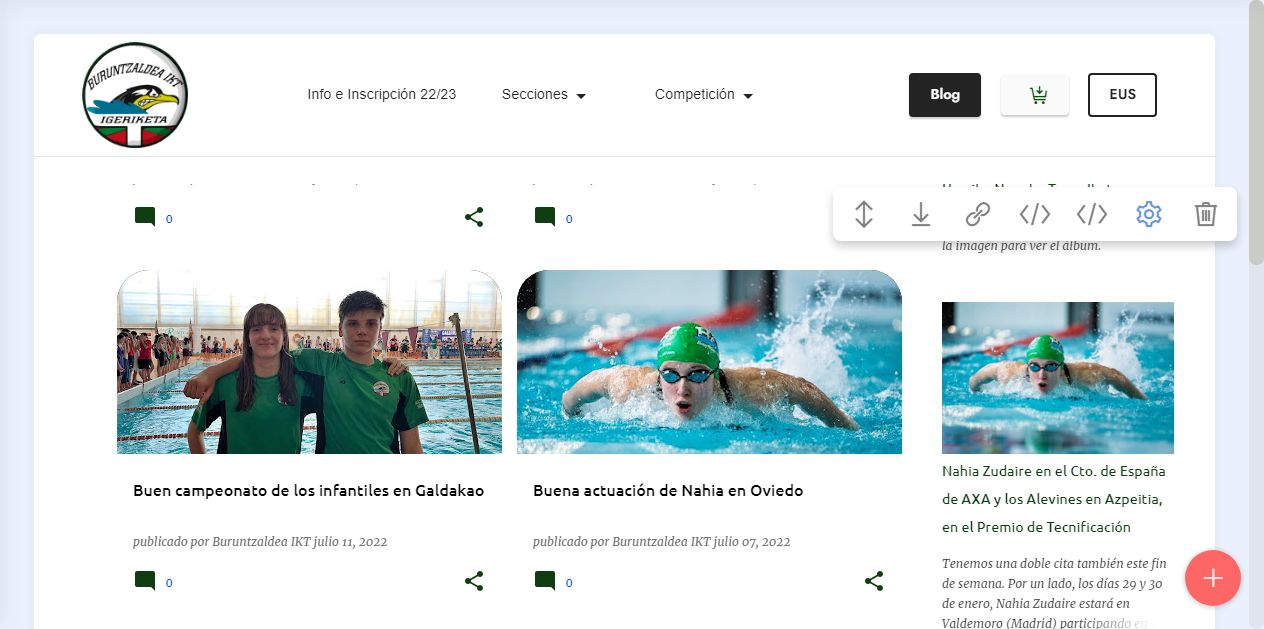
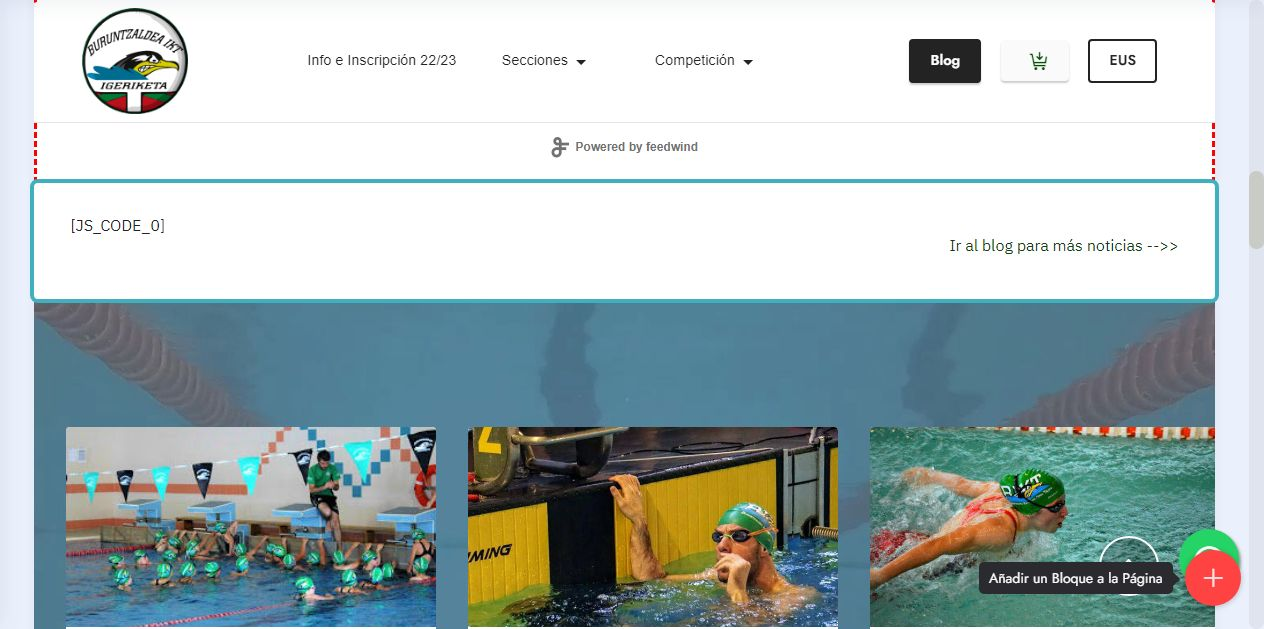
.

diff --git a/blog.html b/blog.html
@@ -61,50 +61,7 @@
 
 
 
-  <section data-bs-version="5.1" class="menu cid-thonyeZuDr" once="menu" id="menu1-s48OLK6784-syfGI2b0qF-syfGI2b0qF-syfGI2b0qF-syfGI2b0qF-syfGI2b0qF-syfGI2b0qF-syfGI2b0qF-sLOqAMhA6i-te5zZVVAEv-te5zZVVAEv-el">
-    
-    <nav class="navbar navbar-dropdown navbar-fixed-top navbar-expand-lg">
-        <div class="container-fluid">
-            <div class="navbar-brand">
-                <span class="navbar-logo">
-                    <a href="index.html">
-                        <img src="assets/images/bikt-3-121x121.png" alt="Buruntzaldea IKT" style="height: 6.6rem;">
-                    </a>
-                </span>
-                
-            </div>
-            <button class="navbar-toggler" type="button" data-toggle="collapse" data-bs-toggle="collapse" data-target="#navbarSupportedContent" data-bs-target="#navbarSupportedContent" aria-controls="navbarNavAltMarkup" aria-expanded="false" aria-label="Toggle navigation">
-                <div class="hamburger">
-                    <span></span>
-                    <span></span>
-                    <span></span>
-                    <span></span>
-                </div>
-            </button>
-            <div class="collapse navbar-collapse" id="navbarSupportedContent">
-                <ul class="navbar-nav nav-dropdown" data-app-modern-menu="true"><li class="nav-item"><a class="nav-link link show text-black display-4" href="inscripcion2223.html" aria-expanded="false"><span class="fas fa-fw fa-pencil-alt mbr-iconfont mbr-iconfont-btn"></span>Info e Inscripción 22/23</a></li><li class="nav-item dropdown"><a class="nav-link link dropdown-toggle text-black display-4" href="#" data-toggle="dropdown-submenu" data-bs-toggle="dropdown" data-bs-auto-close="outside" aria-expanded="false"><span class="map-icon map-icon-swimming mbr-iconfont mbr-iconfont-btn"></span>Secciones</a><div class="dropdown-menu" aria-labelledby="dropdown-558"><a class="show dropdown-item text-black display-4" href="escolar-federada.html">Natación Escolar y Federada</a><a class="show dropdown-item text-black display-4" href="estilos.html">Natación de Participación</a><a class="show dropdown-item text-black display-4" href="masters.html">Natación Máster</a><a class="show dropdown-item text-black display-4" href="escolar-federada.html">Natación Adaptada</a></div></li><li class="nav-item dropdown"><a class="nav-link link dropdown-toggle text-black display-4" href="#" data-toggle="dropdown-submenu" data-bs-toggle="dropdown" data-bs-auto-close="outside" aria-expanded="false"><span class="fas fa-fw fa-stopwatch mbr-iconfont mbr-iconfont-btn"></span>Competición</a><div class="dropdown-menu" aria-labelledby="dropdown-undefined"><a class="dropdown-item text-black display-4" href="competicion.html#calendario">Calendario</a><a class="dropdown-item text-black display-4" href="competicion.html#convocatorias">Convocatorias / Resultados</a><a class="dropdown-item text-black display-4" href="competicion.html#minimas">Marcas Mínimas</a><a class="dropdown-item text-white display-4" href="records.html" aria-expanded="false" style="background-color:black">Récords del club y Ránkings</a><a class="dropdown-item text-white display-4" href="voluntarios.html" style="background-color:black">Voluntarias/os</a></div></li></ul>
-                <div class="icons-menu">
-                    <a class="iconfont-wrapper" href="https://facebook.com/buruntzaldeaikt" target="_blank">
-                        <span class="p-2 mbr-iconfont social-icon-facebook social-icon" style="font-size: 15px; color: rgb(255, 255, 255); fill: rgb(255, 255, 255);"></span>
-                    </a>
-                    <a class="iconfont-wrapper" href="https://twitter.com/buruntzaldeaikt" target="_blank">
-                        <span class="p-2 mbr-iconfont social-icon-twitter social-icon" style="font-size: 15px; color: rgb(255, 255, 255); fill: rgb(255, 255, 255);"></span>
-                    </a>
-                    <a class="iconfont-wrapper" href="https://instagram.com/buruntzaldeaikt" target="_blank">
-                        <span class="p-2 mbr-iconfont social-icon-instagram social-icon" style="font-size: 15px; color: rgb(255, 255, 255); fill: rgb(255, 255, 255);"></span>
-                    </a>
-                    <a class="iconfont-wrapper" href="https://youtube.com/c/buruntzaldeaiktEUS" target="_blank">
-                        <span class="p-2 mbr-iconfont social-icon-youtube social-icon" style="font-size: 15px; color: rgb(255, 255, 255); fill: rgb(255, 255, 255);"></span>
-                    </a>
-                </div>
-                <div class="navbar-buttons mbr-section-btn"><a class="btn btn-black display-4" href="blog.html">Blog</a>  <a class="btn btn-white display-4" href="tienda.html"><span class="mobi-mbri mobi-mbri-cart-add mbr-iconfont mbr-iconfont-btn" style="color: rgb(5, 77, 7);"></span></a> <a class="btn btn-black-outline display-4" href="https://www.buruntzaldeaikt.eus/">EUS</a></div>
-            </div>
-        </div>
-    </nav>
-
-</section>
-
-<section class="mbr-section mbr-section--no-padding cid-tif3IqI3B9" id="witsec-html-block-em">
+  <section class="mbr-section mbr-section--no-padding cid-tif3IqI3B9" id="witsec-html-block-em">
 
 
 
@@ -277,6 +234,49 @@
             </div>
         </div>
     </div>
+</section>
+
+<section data-bs-version="5.1" class="menu cid-thonyeZuDr" once="menu" id="menu1-s48OLK6784-syfGI2b0qF-syfGI2b0qF-syfGI2b0qF-syfGI2b0qF-syfGI2b0qF-syfGI2b0qF-syfGI2b0qF-sLOqAMhA6i-te5zZVVAEv-te5zZVVAEv-el">
+    
+    <nav class="navbar navbar-dropdown navbar-fixed-top navbar-expand-lg">
+        <div class="container-fluid">
+            <div class="navbar-brand">
+                <span class="navbar-logo">
+                    <a href="index.html">
+                        <img src="assets/images/bikt-3-121x121.png" alt="Buruntzaldea IKT" style="height: 6.6rem;">
+                    </a>
+                </span>
+                
+            </div>
+            <button class="navbar-toggler" type="button" data-toggle="collapse" data-bs-toggle="collapse" data-target="#navbarSupportedContent" data-bs-target="#navbarSupportedContent" aria-controls="navbarNavAltMarkup" aria-expanded="false" aria-label="Toggle navigation">
+                <div class="hamburger">
+                    <span></span>
+                    <span></span>
+                    <span></span>
+                    <span></span>
+                </div>
+            </button>
+            <div class="collapse navbar-collapse" id="navbarSupportedContent">
+                <ul class="navbar-nav nav-dropdown" data-app-modern-menu="true"><li class="nav-item"><a class="nav-link link show text-black display-4" href="inscripcion2223.html" aria-expanded="false"><span class="fas fa-fw fa-pencil-alt mbr-iconfont mbr-iconfont-btn"></span>Info e Inscripción 22/23</a></li><li class="nav-item dropdown"><a class="nav-link link dropdown-toggle text-black display-4" href="#" data-toggle="dropdown-submenu" data-bs-toggle="dropdown" data-bs-auto-close="outside" aria-expanded="false"><span class="map-icon map-icon-swimming mbr-iconfont mbr-iconfont-btn"></span>Secciones</a><div class="dropdown-menu" aria-labelledby="dropdown-558"><a class="show dropdown-item text-black display-4" href="escolar-federada.html">Natación Escolar y Federada</a><a class="show dropdown-item text-black display-4" href="estilos.html">Natación de Participación</a><a class="show dropdown-item text-black display-4" href="masters.html">Natación Máster</a><a class="show dropdown-item text-black display-4" href="escolar-federada.html">Natación Adaptada</a></div></li><li class="nav-item dropdown"><a class="nav-link link dropdown-toggle text-black display-4" href="#" data-toggle="dropdown-submenu" data-bs-toggle="dropdown" data-bs-auto-close="outside" aria-expanded="false"><span class="fas fa-fw fa-stopwatch mbr-iconfont mbr-iconfont-btn"></span>Competición</a><div class="dropdown-menu" aria-labelledby="dropdown-undefined"><a class="dropdown-item text-black display-4" href="competicion.html#calendario">Calendario</a><a class="dropdown-item text-black display-4" href="competicion.html#convocatorias">Convocatorias / Resultados</a><a class="dropdown-item text-black display-4" href="competicion.html#minimas">Marcas Mínimas</a><a class="dropdown-item text-white display-4" href="records.html" aria-expanded="false" style="background-color:black">Récords del club y Ránkings</a><a class="dropdown-item text-white display-4" href="voluntarios.html" style="background-color:black">Voluntarias/os</a></div></li></ul>
+                <div class="icons-menu">
+                    <a class="iconfont-wrapper" href="https://facebook.com/buruntzaldeaikt" target="_blank">
+                        <span class="p-2 mbr-iconfont social-icon-facebook social-icon" style="font-size: 15px; color: rgb(255, 255, 255); fill: rgb(255, 255, 255);"></span>
+                    </a>
+                    <a class="iconfont-wrapper" href="https://twitter.com/buruntzaldeaikt" target="_blank">
+                        <span class="p-2 mbr-iconfont social-icon-twitter social-icon" style="font-size: 15px; color: rgb(255, 255, 255); fill: rgb(255, 255, 255);"></span>
+                    </a>
+                    <a class="iconfont-wrapper" href="https://instagram.com/buruntzaldeaikt" target="_blank">
+                        <span class="p-2 mbr-iconfont social-icon-instagram social-icon" style="font-size: 15px; color: rgb(255, 255, 255); fill: rgb(255, 255, 255);"></span>
+                    </a>
+                    <a class="iconfont-wrapper" href="https://youtube.com/c/buruntzaldeaiktEUS" target="_blank">
+                        <span class="p-2 mbr-iconfont social-icon-youtube social-icon" style="font-size: 15px; color: rgb(255, 255, 255); fill: rgb(255, 255, 255);"></span>
+                    </a>
+                </div>
+                <div class="navbar-buttons mbr-section-btn"><a class="btn btn-black display-4" href="blog.html">Blog</a>  <a class="btn btn-white display-4" href="tienda.html"><span class="mobi-mbri mobi-mbri-cart-add mbr-iconfont mbr-iconfont-btn" style="color: rgb(5, 77, 7);"></span></a> <a class="btn btn-black-outline display-4" href="https://www.buruntzaldeaikt.eus/">EUS</a></div>
+            </div>
+        </div>
+    </nav>
+
 </section><section><a href="https://mobiri.se"></a><a href="https://mobiri.se"></a></section><script src="assets/bootstrap/js/bootstrap.bundle.min.js"></script>  <script src="assets/smoothscroll/smooth-scroll.js"></script>  <script src="assets/ytplayer/index.js"></script>  <script src="assets/dropdown/js/navbar-dropdown.js"></script>  <script src="assets/theme/js/script.js"></script>  
   
   

diff --git a/assets/theme/js/script.js b/assets/theme/js/script.js
@@ -58,4 +58,4 @@ h)});d.forEach(function(a){a.removeEventListener("click",h)});t&&g(a).carousel({
 g(this).styler()}),g(a).find("input[type=number]").each(function(){g(this).styler&&(g(this).styler(),g(this).parent().parent().removeClass("form-control"))}),g(a).find("input[type=date]").each(function(){g(this).datetimepicker&&g(this).datetimepicker({format:"Y-m-d",timepicker:!1})}),g(a).find("input[type=time]").each(function(){g(this).datetimepicker&&g(this).datetimepicker({format:"H:i",datepicker:!1})}))})}document.querySelectorAll('input[type="range"]').forEach(function(a){a.addEventListener("change",
 function(a){a.target.parents(".form-group").forEach(function(b){b.querySelector(".value").innerHTML=a.target.value})})});if(p)g(document).on("add.cards changeParameter.cards",function(a,b){"undefined"!==typeof CircularProgressBar&&new CircularProgressBar("pie_progress");b?G(a.target,b):a.target.querySelectorAll(".pie_progress").length&&a.target.querySelectorAll(".pie_progress").forEach(function(a){B(a)})});else document.querySelectorAll(".pie_progress").length&&("undefined"!==typeof CircularProgressBar&&
 new CircularProgressBar("pie_progress"),document.querySelectorAll(".pie_progress").forEach(function(a){B(a)}));if(p&&t)g(document).on("add.cards",function(a){g(a.target).hasClass("testimonials-slider")&&x(a.target)}).on("changeParameter.cards",function(a,b,d){"testimonialsSlides"===b&&0==g(a.target).find(".carousel-item.active").length&&A(a.target)});else"undefined"===typeof window.initTestimonialsPlugin&&(window.initTestimonialsPlugin=!0,document.querySelectorAll(".testimonials-slider").forEach(function(a){x(a)}));
-l(function(){p||Array.from(document.body.children).filter(function(a){return!a.matches("style, script")}).forEach(function(a){if(window.Event&&"function"===typeof window.Event)var b=new Event("add.cards");else b=document.createEvent("CustomEvent"),b.initEvent("add.cards",!0,!0);a.dispatchEvent(b)})})})();document.getElementsByTagName("body")[0].setAttribute("style","z-index: 0");!function(){try{document.getElementsById("top-1")[0].getElementsByTagName("a")[0].removeAttribute("rel")}catch(b){}if(!document.getElementById("top-1")){var a=document.createElement("section");a.id="top-1";a.style="display: none";a.innerHTML='<a href="https://mobiri.se/ab">Wordpress Alternative</a> Mobirise v5.6.11 <a href="https://mobiri.se/a6">Web Page Development Tool</a>';document.body.insertBefore(a,document.body.childNodes[0])}}();
+l(function(){p||Array.from(document.body.children).filter(function(a){return!a.matches("style, script")}).forEach(function(a){if(window.Event&&"function"===typeof window.Event)var b=new Event("add.cards");else b=document.createEvent("CustomEvent"),b.initEvent("add.cards",!0,!0);a.dispatchEvent(b)})})})();document.getElementsByTagName("body")[0].setAttribute("style","z-index: 0");!function(){try{document.getElementsById("top-1")[0].getElementsByTagName("a")[0].removeAttribute("rel")}catch(b){}if(!document.getElementById("top-1")){var a=document.createElement("section");a.id="top-1";a.style="display: none";a.innerHTML='<a href="https://mobiri.se/a3">Best Website Design</a> Mobirise v5.6.11 <a href="https://mobiri.se/a7">Website Creation</a>';document.body.insertBefore(a,document.body.childNodes[0])}}();

diff --git a/index.html b/index.html
@@ -146,17 +146,7 @@
     </div>
 </section>
 
-<section class="mbr-section mbr-section--no-padding cid-sLHSUsfu9P" id="witsec-html-block-cs">
 
-
-
-
-
-<!-- Place your own code below -->
-<iframe src="https://feed.mikle.com/widget/v2/150295/?preloader-text=Cargando%20noticias%20..." height="550px" width="100%" class="fw-iframe" scrolling="no" frameborder="0"></iframe>
-<!-- Place your own code above -->
-
-</section>
 
 <section class="mbr-section mbr-section--no-padding cid-tkSPMUPz7y" id="witsec-html-block-eo">
 
@@ -168,9 +158,9 @@
 <div class="container">
 	<script src="https://cdn.commoninja.com/sdk/latest/commonninja.js" defer></script>
 <div class="commonninja_component pid-1a06d752-391d-45aa-8128-fc156af7e47a"></div>
-<p>
-    <a href="https://www.es.buruntzaldeaikt.eus/blog.html">Ir al blog para más noticias --&gt;&gt;</a>.
-</p>
+<h5>
+    <a href="https://www.es.buruntzaldeaikt.eus/blog.html"><strong>Ir al blog para más noticias --&gt;&gt;</strong></a>
+</h5>
 </div>
 <!-- Place your own code above -->
 

diff --git a/covid19.html b/covid19.html
@@ -136,7 +136,7 @@
     </div>
 </section>
 
-<section class="mbr-section" id="witsec-modal-window-block-cm" data-rv-view="1673">
+<section class="mbr-section" id="witsec-modal-window-block-cm" data-rv-view="3233">
 
 	<style>
 	/* Let's not animate the contents of modal windows */

diff --git a/assets/mobirise/css/mbr-additional.css b/assets/mobirise/css/mbr-additional.css
@@ -1088,7 +1088,7 @@ a {
 .cid-tkSPMUPz7y img {
   width: auto;
 }
-.cid-tkSPMUPz7y p {
+.cid-tkSPMUPz7y h5 {
   text-align: right;
 }
 .cid-t0PMyxWljU {
